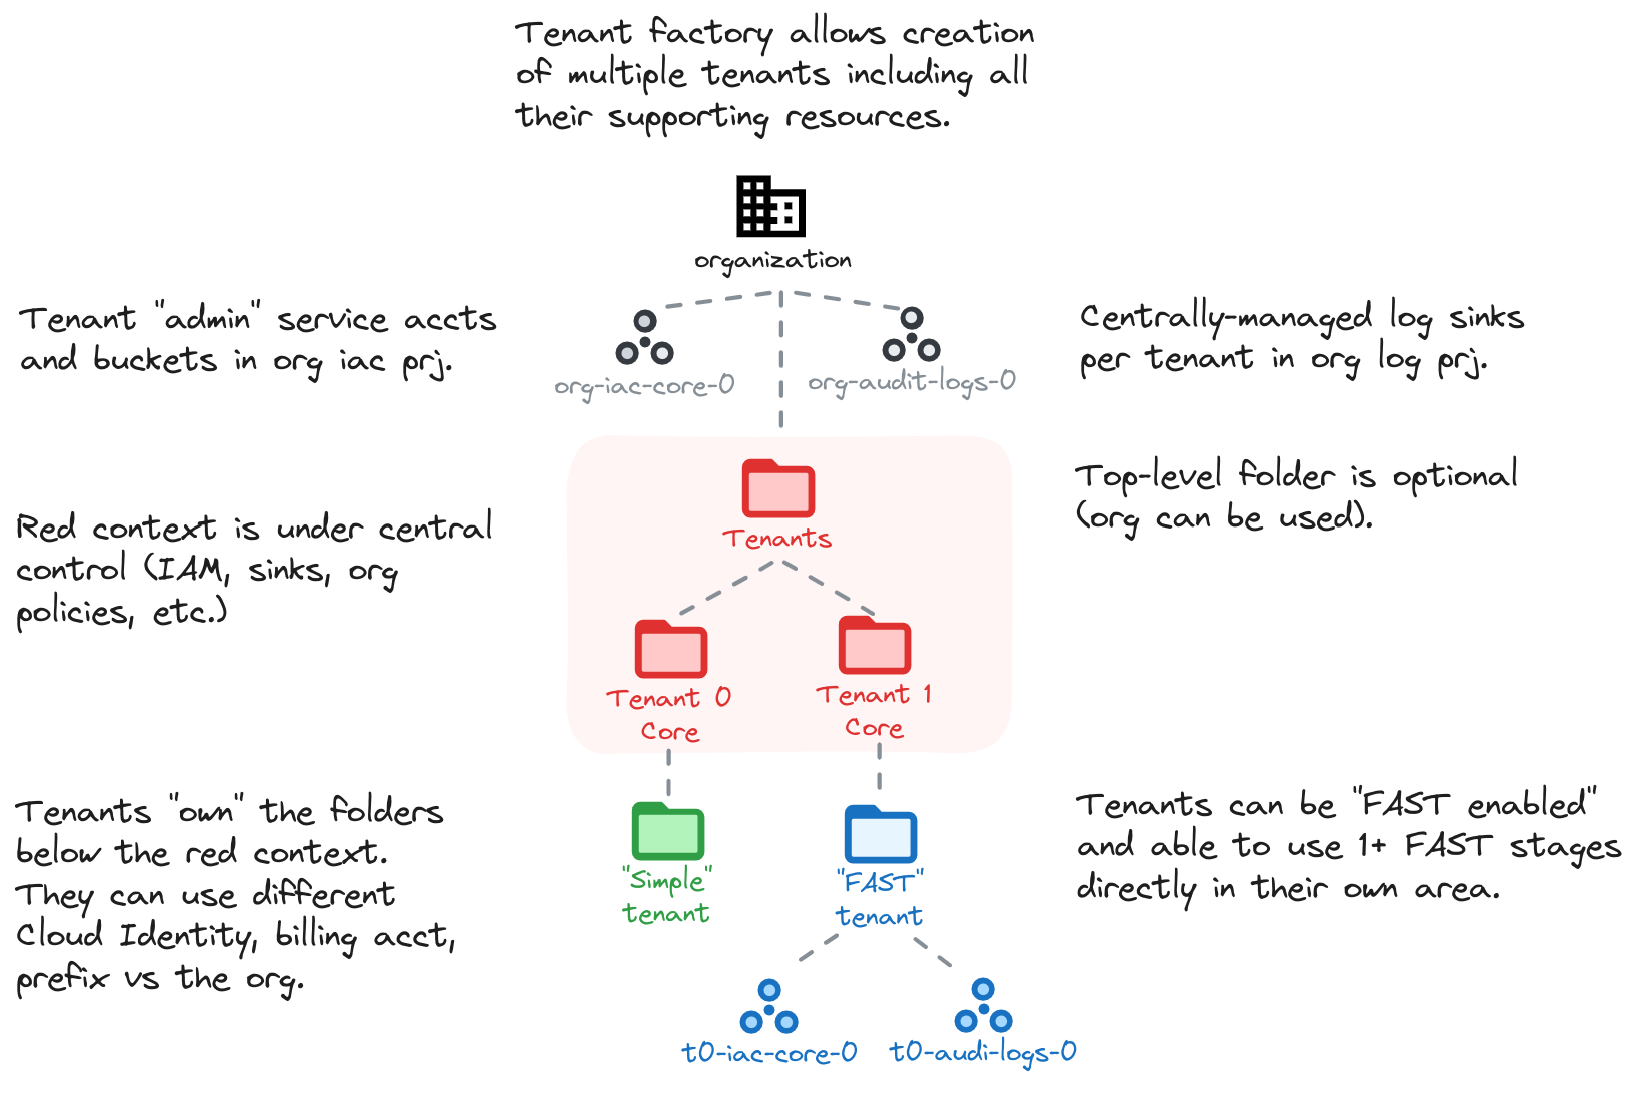
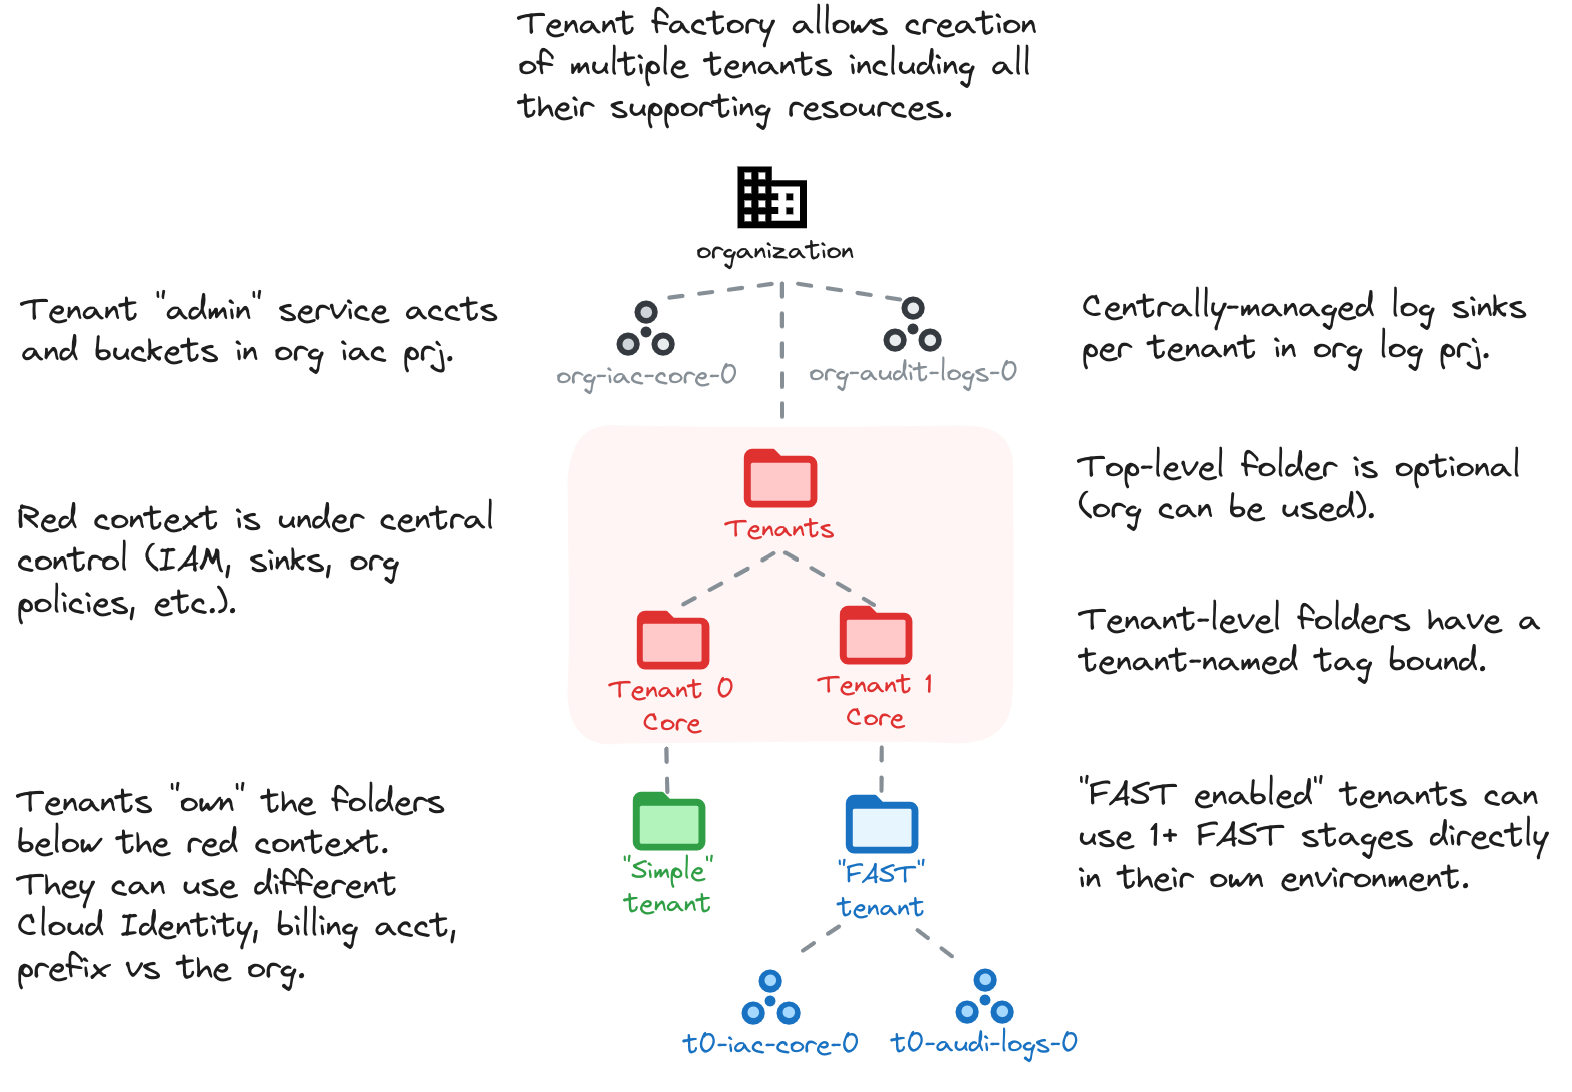
README

diff --git a/fast/stages/1-tenant-factory/README.md b/fast/stages/1-tenant-factory/README.md
@@ -6,7 +6,7 @@ Typical use cases include large organizations managing IT for separate semi-indi
 
 <!-- BEGIN TOC -->
 - [Design overview and choices](#design-overview-and-choices)
-  - [Autonomous tenants](#autonomous-tenants)
+  - [Regular tenants](#regular-tenants)
   - [FAST-compatible tenants](#fast-compatible-tenants)
 - [How to run this stage](#how-to-run-this-stage)
   - [Provider and Terraform variables](#provider-and-terraform-variables)
@@ -14,6 +14,8 @@ Typical use cases include large organizations managing IT for separate semi-indi
   - [Variable configuration](#variable-configuration)
   - [Running the stage](#running-the-stage)
 - [Tenant configuration](#tenant-configuration)
+  - [Configurations for both simple and FAST tenants](#configurations-for-both-simple-and-fast-tenants)
+  - [Configurations FAST tenants](#configurations-fast-tenants)
 - [Files](#files)
 - [Variables](#variables)
 - [Outputs](#outputs)
@@ -32,13 +34,13 @@ Each tenant can optionally:
 - use a separate Cloud Identity / Workspace
 - be created with full FAST compatibility, so that they can independently deploy stages 1+ in their area
 
-This stage is configured as a factory and allows managing multiple tenants. From the point of view of FAST it acts as a bootstrap stage for each tenant configured in FAST compatible mode.
+This stage is configured as a factory and allows managing multiple tenants. When tenants are configured in FAST compatible mode, this stage acts as a bootstrap stage for the tenant.
 
 The following is a high level diagram of this stage design.
 
 ![Stage diagram](diagram.png)
 
-### Autonomous tenants
+### Regular tenants
 
 Where FAST compatibility is not needed this stage can be used to create very simple tenancy, configuring the minimum amount of resources to allow tenants to operate inside their area:
 
@@ -55,17 +57,192 @@ This type of tenant can be "upgraded" at any time to FAST compatibility by simpl
 
 ### FAST-compatible tenants
 
+Tenants can also be configured with (almost complete) FAST compatibility. This mode emulates the bootstrap stage, and then allows tenants to indipendently bring up a complete Landing Zone in their environment using FAST.
+
+The only differences compared to organization-level FAST are:
+
+- no bootstrap service account is created for the tenant, as this stage is emulating bootstrap
+- tenant-defined log sinks can be configured in stage 1
+- secure tags are created in the tenant automation project
+- tenants cannot self-manage organization policies on their folder
+
+While this stage's approach to organization policies is to keep them under centralized management, it's still possible to allow tenants limited or full control over organization policies either
+
+- by assigning them permissions on secure tags used in policy conditions, or
+- by assignign them organization policy admin permissions on the organization, with a condition based on the secure tag value bound to their folder
+
+Once a FAST-enabled tenant is created, the admin principal for the tenant has access to a dedicated resource management service account and set of input files (provider, tfvars) and can proceed to setup FAST using the regular stage 1.
+
 ## How to run this stage
+
+This stage uses a similar configuration to the [resource management](../1-resman/README.md) stage, with the only differences being the backend used, and the configuration of the specific variables that drive tenant creation.
+
+The only real prerequisite is having fully deployed the [bootstrap](../0-bootstrap) stage, but there's no need to run [resource management](../1-resman/) before creating tenants unless a top-level "Tenants" folder is wanted (and that can of course be created by hand if needed).
 
 ### Provider and Terraform variables
 
+As all other FAST stages, the [mechanism used to pass variable values and pre-built provider files from one stage to the next](../0-bootstrap/README.md#output-files-and-cross-stage-variables) is also leveraged here.
+
+The commands to link or copy the provider and terraform variable files can be easily derived from the `stage-links.sh` script in the FAST root folder, passing it a single argument with the local output files folder (if configured) or the GCS output bucket in the automation project (derived from stage 0 outputs). The following examples demonstrate both cases, and the resulting commands that then need to be copy/pasted and run.
+
+```bash
+../../stage-links.sh ~/fast-config
+
+# copy and paste the following commands for '1-tenant-factory'
+
+ln -s ~/fast-config/providers/1-tenant-factory-providers.tf ./
+ln -s ~/fast-config/tfvars/0-globals.auto.tfvars.json ./
+ln -s ~/fast-config/tfvars/0-bootstrap.auto.tfvars.json ./
+```
+
+```bash
+../../stage-links.sh gs://xxx-prod-iac-core-outputs-0
+
+# copy and paste the following commands for '1-tenant-factory'
+
+gcloud alpha storage cp gs://xxx-prod-iac-core-outputs-0/providers/1-tenant-factory-providers.tf ./
+gcloud alpha storage cp gs://xxx-prod-iac-core-outputs-0/tfvars/0-globals.auto.tfvars.json ./
+gcloud alpha storage cp gs://xxx-prod-iac-core-outputs-0/tfvars/0-bootstrap.auto.tfvars.json ./
+```
+
 ### Impersonating the automation service account
+
+The preconfigured provider file uses impersonation to run with this stage's automation service account's credentials. The `gcp-devops` and `organization-admins` groups have the necessary IAM bindings in place to do that, so make sure the current user is a member of one of those groups.
 
 ### Variable configuration
 
+Variables in this stage -- like most other FAST stages -- are broadly divided into three separate sets:
+
+- variables which refer to global values for the whole organization (org id, billing account id, prefix, etc.), which are pre-populated via the `0-globals.auto.tfvars.json` file linked or copied above
+- variables which refer to resources managed by previous stage, which are prepopulated here via the `0-bootstrap.auto.tfvars.json` file linked or copied above
+- and finally variables that optionally control this stage's behaviour and customizations, and can to be set in a custom `terraform.tfvars` file
+
+The latter set is explained in the [Tenant configuration](#tenant-configuration) sections below, and the full list can be found in the [Variables](#variables) table at the bottom of this document.
+
+Note that the `outputs_location` variable is disabled by default, you need to explicitly set it in your `terraform.tfvars` file if you want output files to be generated by this stage. This is a sample `terraform.tfvars` that configures it, refer to the [bootstrap stage documentation](../0-bootstrap/README.md#output-files-and-cross-stage-variables) for more details:
+
+```tfvars
+outputs_location = "~/fast-config"
+```
+
 ### Running the stage
 
+Once provider and variable values are in place and the correct user is configured, the stage can be run:
+
+```bash
+terraform init
+terraform apply
+```
+
 ## Tenant configuration
+
+This stage has only three variables that can be customized:
+
+- `root_node` specifies the top-level folder under which all tenant folders are created; if it's not specified (the default) tenants are created directly under the organization
+- `tag_names.tenant` defines the name of the tag key used to hold one tag value per tenant, and defaults `tenant`
+- `tenant_configs` is a map containing the configuration for each tenant, and is explained below
+
+### Configurations for both simple and FAST tenants
+
+A small number of attributes can be configured for each tenant in `tenant_configs` regardless of its type (simple or FAST-enabled).
+
+The key in the tenant map is used as the tenant shortname, and should be selected with care as it becomes part of resource names, so it should not exceed 3 characters unless a custom prefix is defined for the tenant.
+
+`admin_principal` is a IAM-format principal (e.g. `group:tenant-admins@example.org`) which is assigned administrative permissions on the tenant environment, and impersonation permissions on the automation service account.
+
+`descriptive_name` is the name used for the tenant folder, and some resource descriptions.
+
+`billing_account` is optional and defaults to the organization billing account if not specified. If a custom billing account is used by the tenant, set its id in `billing_account.id`. When a custom billing account is used, this stage can optionally manage billing account permissions for tenant principals and service accounts by setting `billing_account.no_iam` to `false`. By default IAM is not managed for external billing accounts.
+
+`cloud_identity` is optional and defaults to the organization Cloud Identity instance if not specified. If the tenant manages users and group via a separate Cloud Identity, set its configuration in this attribute.
+
+`locations` is optional and allows overriding the organization-level locations. It is only really meaningful for FAST-enabled tenants, where this field is used for the locations of automation and log-related resources (GCS, log buckets, etc.).
+
+`vpc_sc_policy_create` is optional and when `true` creates a VPC-SC policy for the tenant scoped to its folder, assigning administrative permissions on it to the tenant's admin principal and service account.
+
+This is an example of two simple non-FAST enabled tenants:
+
+```hcl
+root_node = "folders/1234567890"
+tenant_configs = {
+  s0 = {
+    admin_principal = "group:gcp-admins@s0.example.org"
+    billing_account = {
+      id     = "0123456-0123456-0123456"
+      no_iam = false
+    }
+    descriptive_name = "Simple 0"
+    cloud_identity = {
+      customer_id = "CCC000CCC"
+      domain      = "s0.example.org"
+      id          = 1234567890
+    }
+    vpc_sc_policy_create = true
+  }
+  s1 = {
+    admin_principal = "group:s1-admins@example.org"
+    descriptive_name = "Simple 1"
+  }
+}
+```
+
+### Configurations FAST tenants
+
+FAST compatibility is enabled for a tenant by defining the `fast_config` attribute in their configuration, in addition to the attributes outlined above.
+
+The `fast_config` attributes control the FAST bootstrap emulation for the tenants, and behave in a similar way to the corresponding variables that control the [bootstrap stage](../0-bootstrap/README.md#variables). They are all optional, and their behaviour is explained in the bootstrap stage documentation.
+
+This is an example of two FAST-enabled tenants:
+
+```hcl
+tenant_configs = {
+  f0 = {
+    admin_principal = "group:gcp-admins@f0.example.org"
+    billing_account = {
+      # implicit use of org-level BA with IAM roles
+      no_iam = false
+    }
+    descriptive_name = "Fast 0"
+    cloud_identity = {
+      customer_id = "CdCdCdCd"
+      domain      = "f0.example.org"
+      id          = 1234567890
+    }
+    fast_config = {
+      groups = {
+        gcp-network-admins = "gcp-network-admins"
+      }
+      cicd_config = {
+        identity_provider = "github"
+        name              = "ExampleF0/resman"
+        type              = "github"
+        branch            = "main"
+      }
+      workload_identity_providers = {
+        github = {
+          attribute_condition = "attribute.repository_owner==\"foobar\""
+          issuer              = "github"
+        }
+      }
+    }
+    vpc_sc_policy_create = true
+  }
+  f1 = {
+    admin_principal = "group:f1-admins@example.org"
+    # implicit use of org-level BA without IAM roles
+    descriptive_name = "Fast 1"
+    # implicit use of org-level Cloud Identity
+    groups = {
+      gcp-billing-admins      ="f1-gcp-billing-admins"
+      gcp-devops              ="f1-gcp-devops"
+      gcp-network-admins      ="f1-gcp-vpc-network-admins"
+      gcp-organization-admins ="f1-gcp-organization-admins"
+      gcp-security-admins     ="f1-gcp-security-admins"
+      gcp-support             ="f1-gcp-devops"
+    }
+  }
+}
+```
 
 <!-- TFDOC OPTS files:1 show_extra:1 -->
 <!-- BEGIN TFDOC -->
